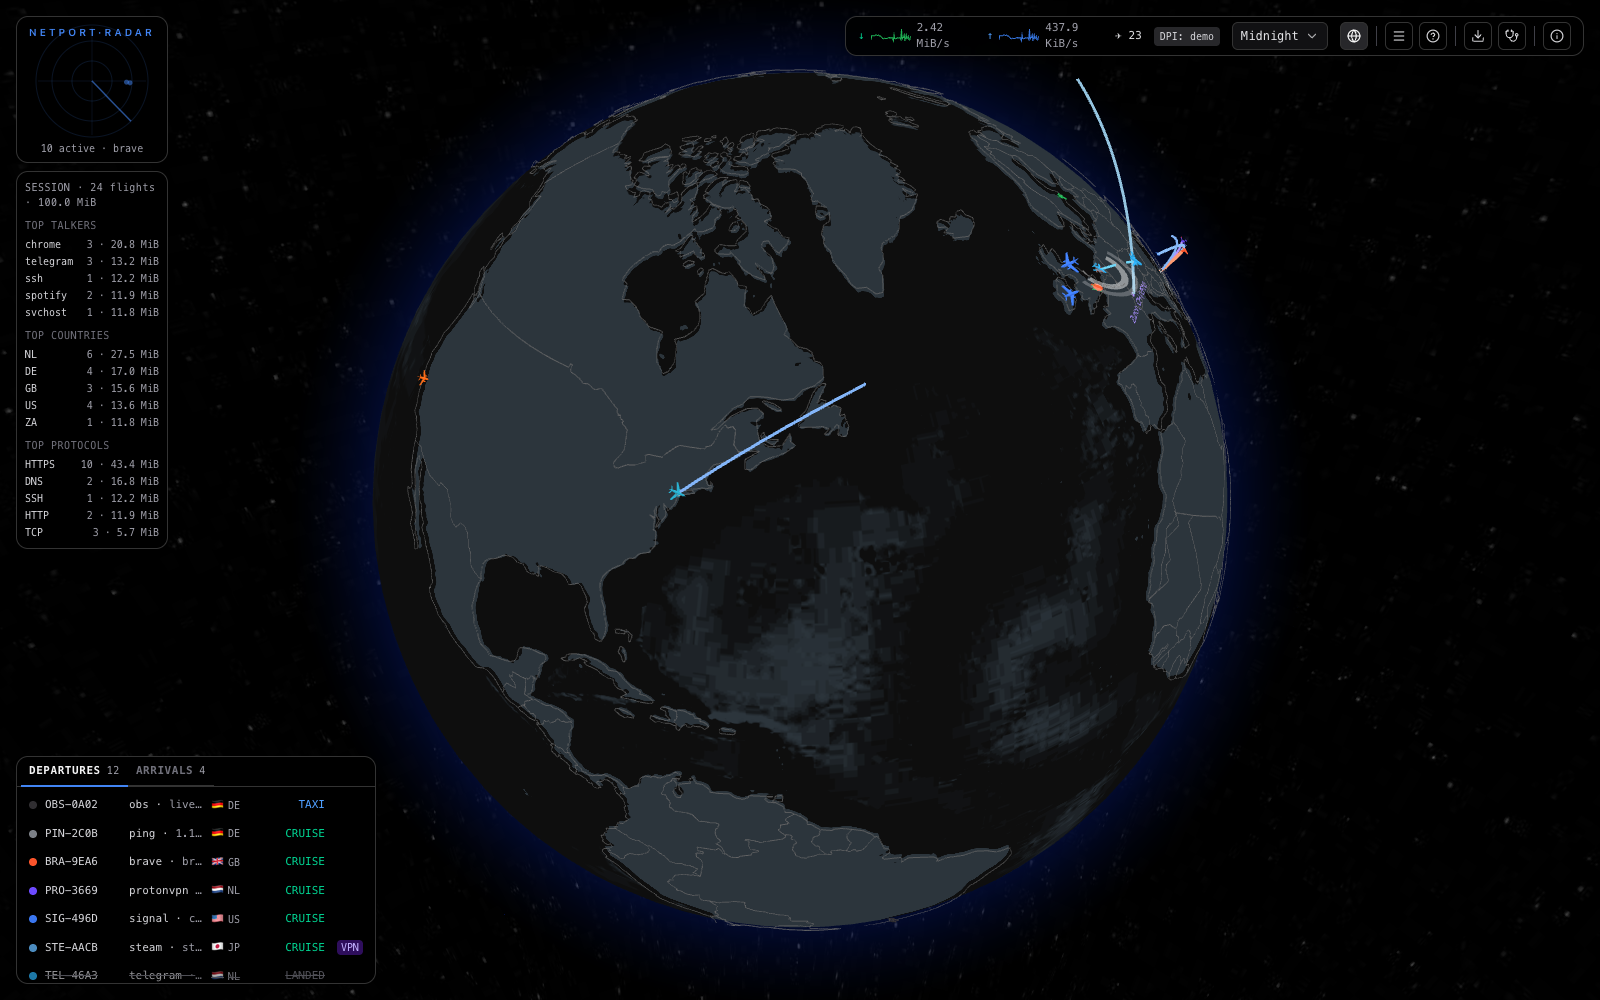
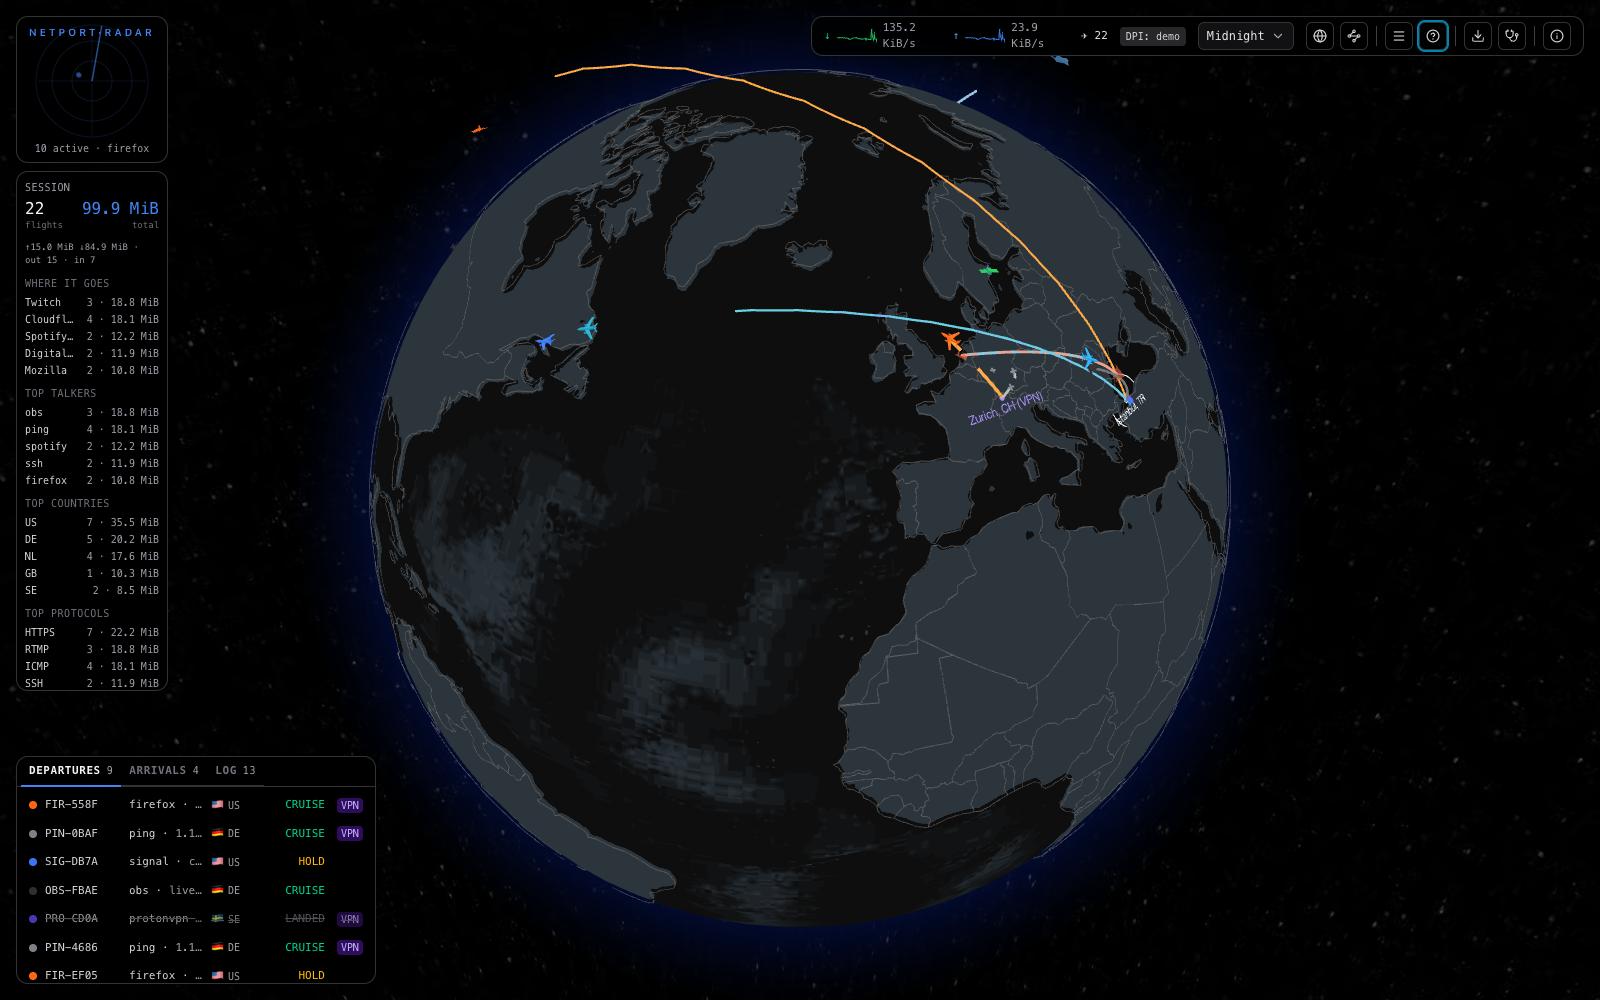
docs: refresh screenshots for stats, Log tab, Night theme and grouped view

diff --git a/README.md b/README.md
@@ -19,6 +19,10 @@ keeping them apart.
 | --- | --- |
 | ![Flight card detail](docs/screenshot-flight-card.png) | ![Filter drawer](docs/screenshot-filters.png) |
 
+| Grouped view, Night theme | Log tab and country summary |
+| --- | --- |
+| ![Grouped view: one arc per destination country on the Night globe](docs/screenshot-grouped-night.png) | ![Log tab with full connection detail and the US country summary](docs/screenshot-log-country.png) |
+
 ## Security design
 
 ### Threat model
